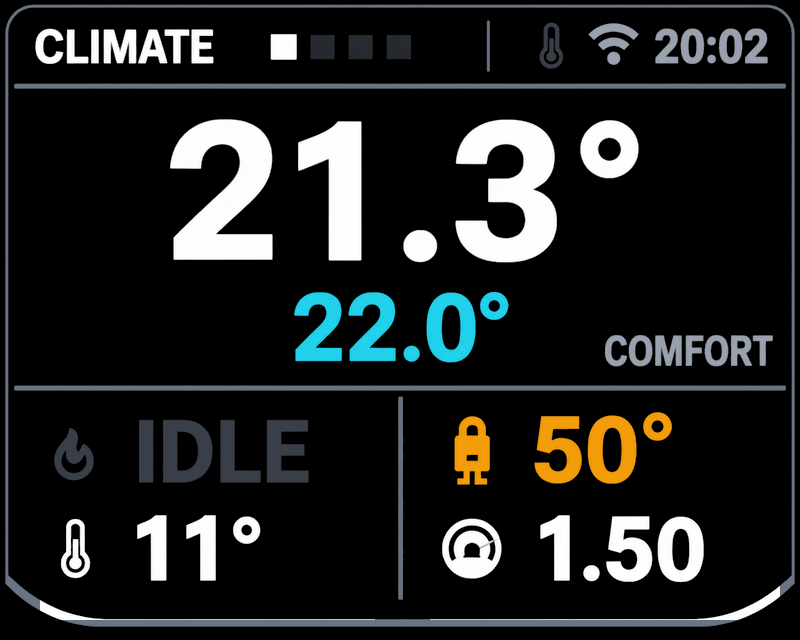
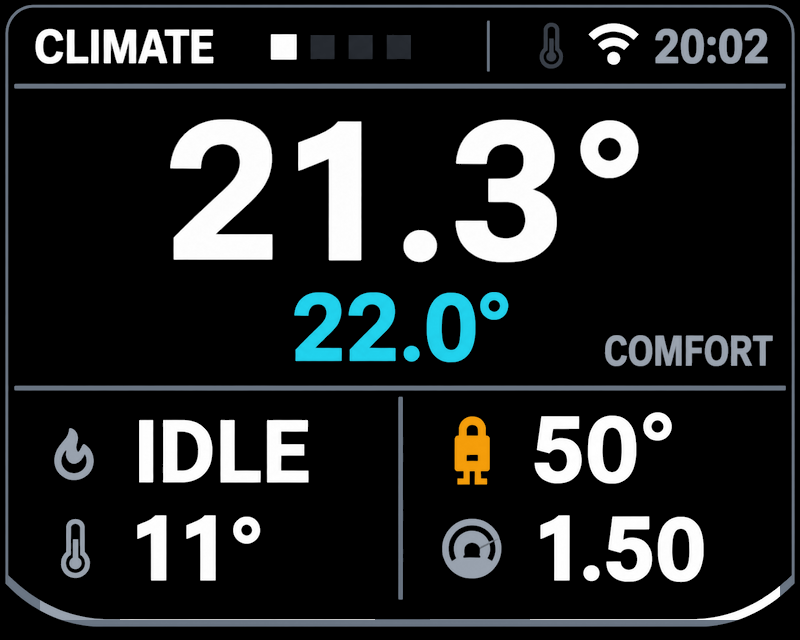
Recolor the screens to the 1.1.2 palette

diff --git a/OpenthermThermostat/README.md b/OpenthermThermostat/README.md
@@ -229,7 +229,7 @@ nothing to save.
 
 #### Climate
 
-<img src="https://config.home-master.eu/OpenthermThermostat/Images/screens/screen-climate.png?v=2" alt="Climate page" width="420">
+<img src="https://config.home-master.eu/OpenthermThermostat/Images/screens/screen-climate.png?v=3" alt="Climate page" width="420">
 
 The page you use day to day.
 
@@ -253,7 +253,7 @@ comfort during the comfort window, eco outside it.
 
 #### Boiler
 
-<img src="https://config.home-master.eu/OpenthermThermostat/Images/screens/screen-boiler.png?v=2" alt="Boiler page" width="420">
+<img src="https://config.home-master.eu/OpenthermThermostat/Images/screens/screen-boiler.png?v=3" alt="Boiler page" width="420">
 
 What the boiler itself reports.
 
@@ -274,7 +274,7 @@ What the boiler itself reports.
 
 #### Schedule
 
-<img src="https://config.home-master.eu/OpenthermThermostat/Images/screens/screen-schedule.png?v=2" alt="Schedule page" width="420">
+<img src="https://config.home-master.eu/OpenthermThermostat/Images/screens/screen-schedule.png?v=3" alt="Schedule page" width="420">
 
 - Which window is in force now, `COMFORT` or `ECO`, and its setpoint.
 - The weekday window and the weekend window, as `HH:MM - HH:MM`.
@@ -295,7 +295,7 @@ and end. The screen shows them so you can check them without a phone.
 
 #### System
 
-<img src="https://config.home-master.eu/OpenthermThermostat/Images/screens/screen-system.png?v=2" alt="System page" width="420">
+<img src="https://config.home-master.eu/OpenthermThermostat/Images/screens/screen-system.png?v=3" alt="System page" width="420">
 
 Diagnostics, for commissioning and for support calls.
 

diff --git a/OpenthermThermostat/Manuals/OpenThermThermostat_UserManual.md b/OpenthermThermostat/Manuals/OpenThermThermostat_UserManual.md
@@ -373,7 +373,7 @@ measurement.
 
 The page for day-to-day use.
 
-![Climate page](https://config.home-master.eu/OpenthermThermostat/Images/screens/screen-climate.png)
+![Climate page](https://config.home-master.eu/OpenthermThermostat/Images/screens/screen-climate.png?v=3)
 
 - Room temperature, large, to one decimal.
 - The setpoint currently in force below it, in cyan.
@@ -395,7 +395,7 @@ comfort during the comfort window, eco outside it.
 
 What the boiler itself reports.
 
-![Boiler page](https://config.home-master.eu/OpenthermThermostat/Images/screens/screen-boiler.png)
+![Boiler page](https://config.home-master.eu/OpenthermThermostat/Images/screens/screen-boiler.png?v=3)
 
 - Boiler water temperature, large.
 - The flow setpoint the thermostat is asking for, in cyan, labelled `FLOW SET`.
@@ -410,7 +410,7 @@ What the boiler itself reports.
 
 ### 6.8 Schedule page
 
-![Schedule page](https://config.home-master.eu/OpenthermThermostat/Images/screens/screen-schedule.png)
+![Schedule page](https://config.home-master.eu/OpenthermThermostat/Images/screens/screen-schedule.png?v=3)
 
 - Which window is in force now, and its setpoint.
 - The weekday and weekend windows, as `HH:MM - HH:MM`.
@@ -437,7 +437,7 @@ A window wraps at midnight: turning `WEEKEND TO` past `23:50` brings it to
 
 Diagnostics, for commissioning and for support calls.
 
-![System page](https://config.home-master.eu/OpenthermThermostat/Images/screens/screen-system.png)
+![System page](https://config.home-master.eu/OpenthermThermostat/Images/screens/screen-system.png?v=3)
 
 | Row | Shows |
 |---|---|

diff --git a/OpenthermThermostat/esphome-devices/index.md b/OpenthermThermostat/esphome-devices/index.md
@@ -13,7 +13,7 @@ difficulty: 1
 
 ![HomeMaster Thermostat for OpenTherm](thermostat.jpg)
 
-![Climate page](screen-climate.png?v=2)
+![Climate page](screen-climate.png?v=3)
 
 ## Description
 
